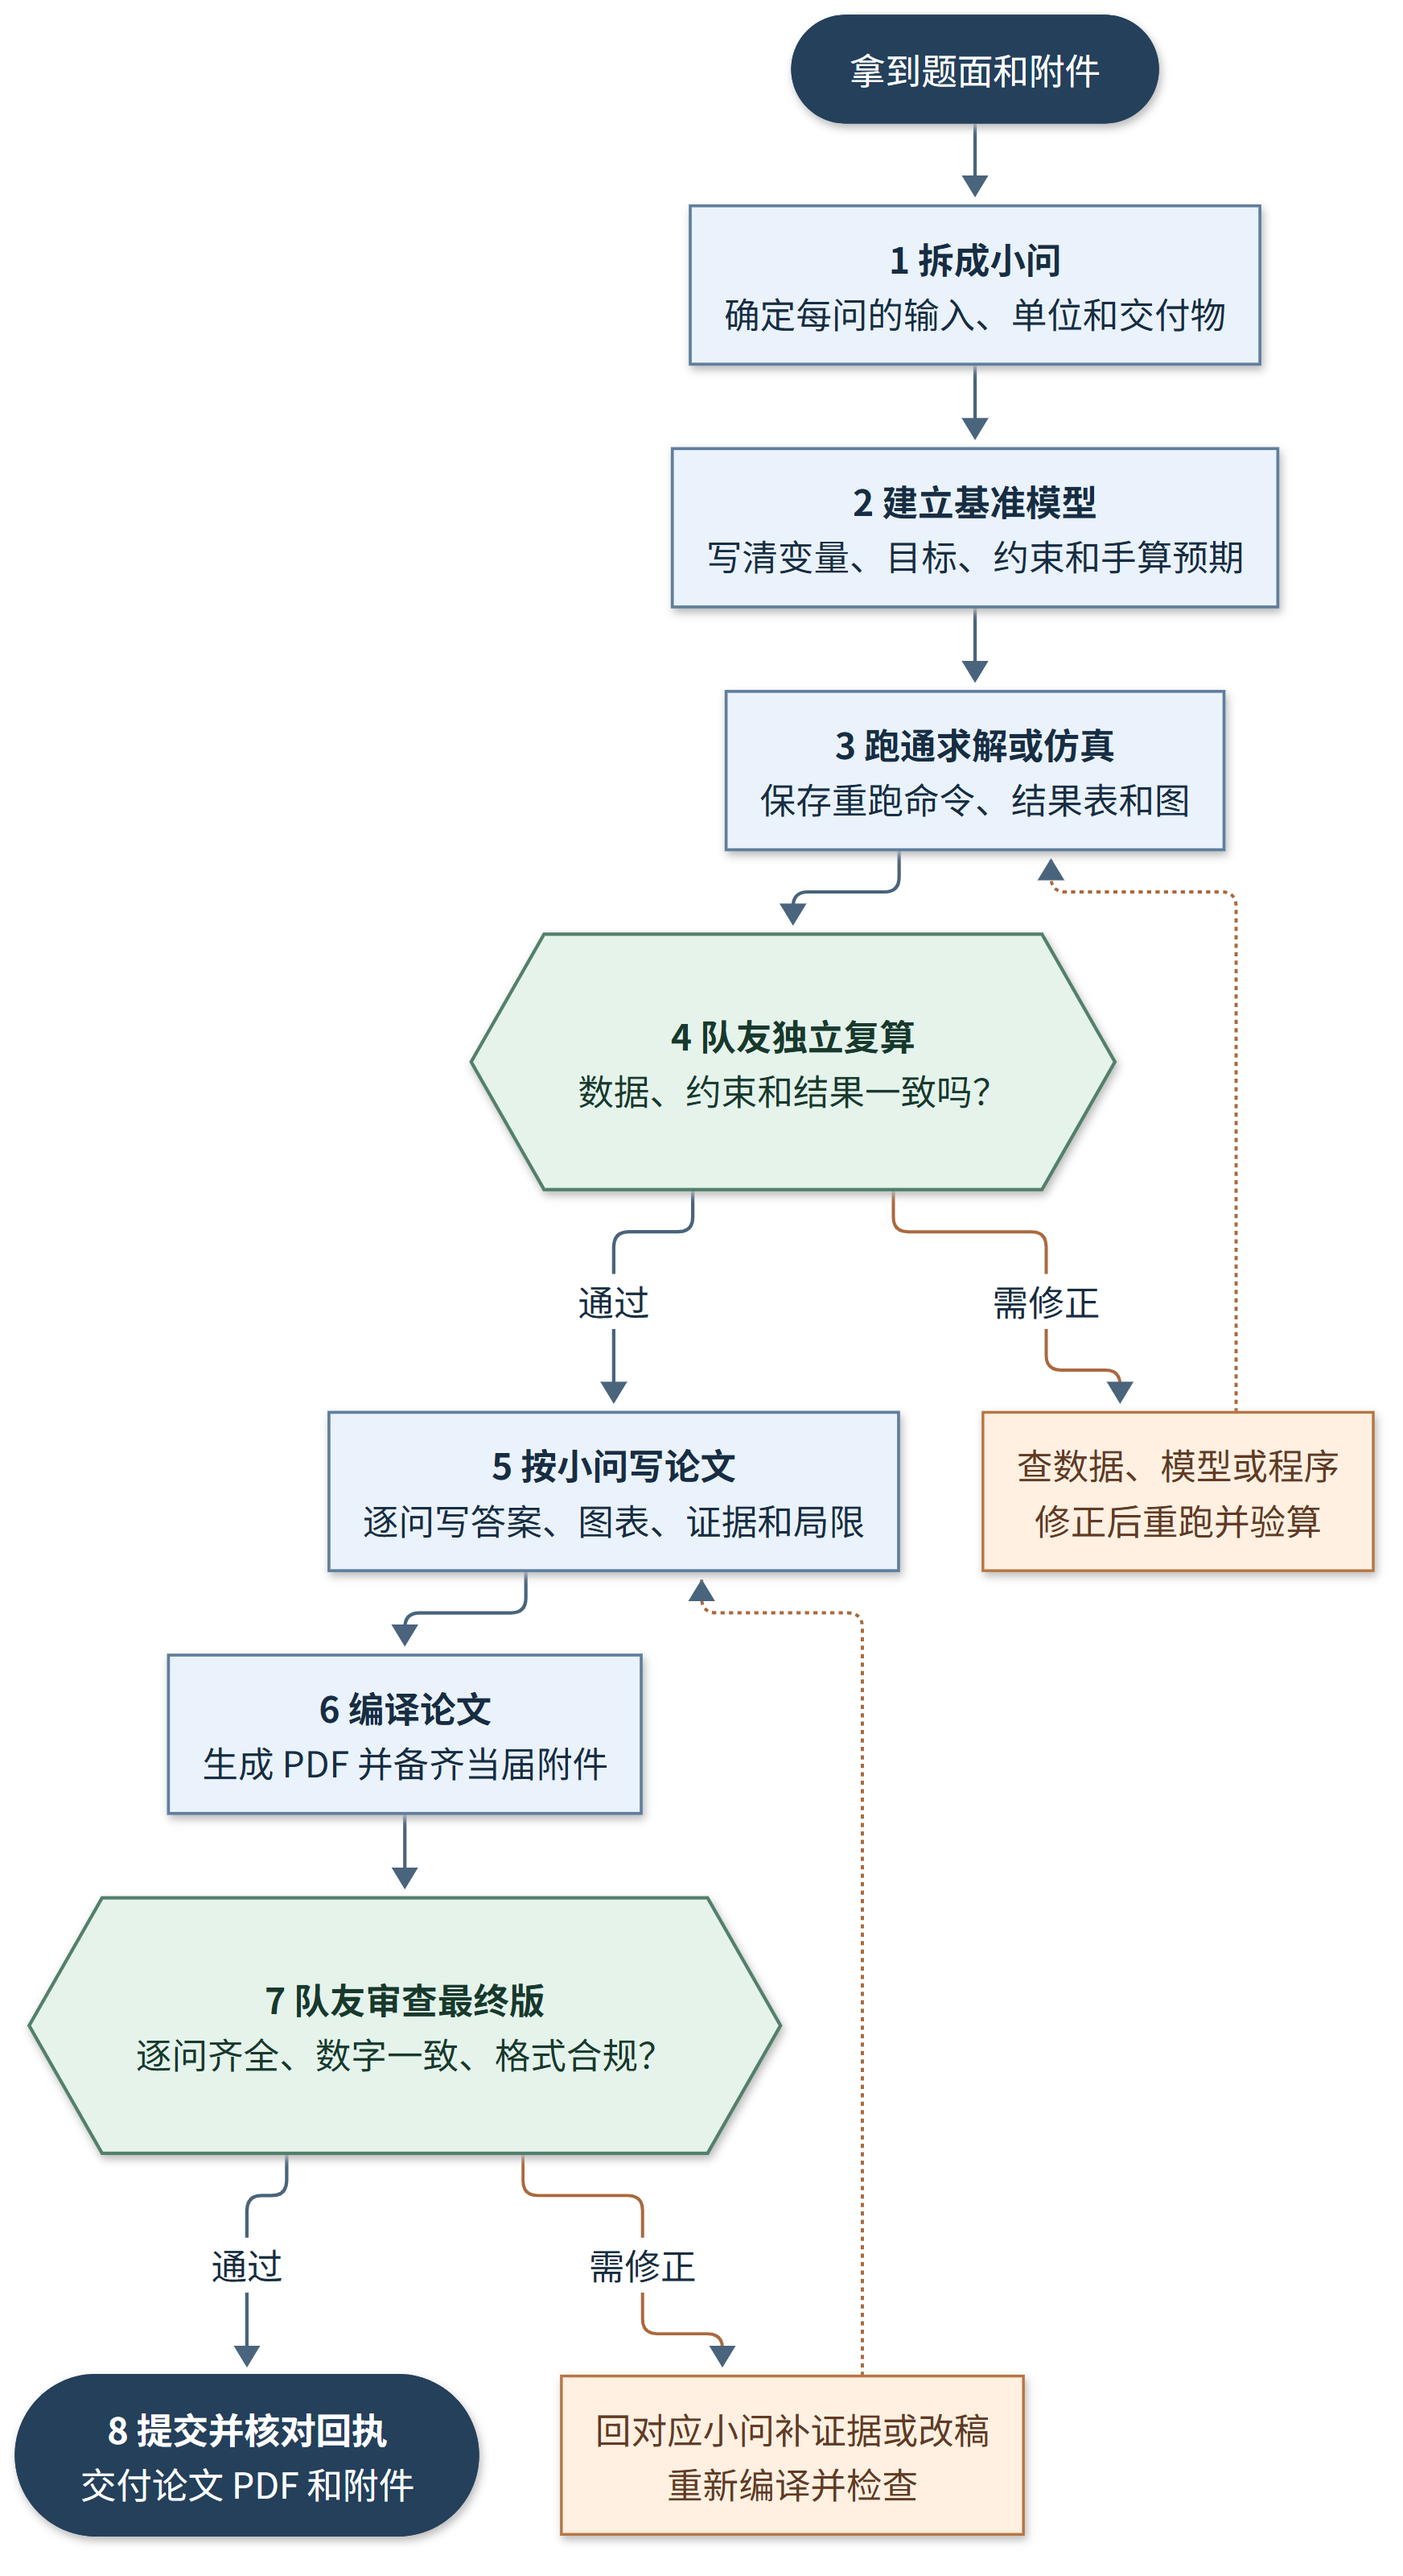
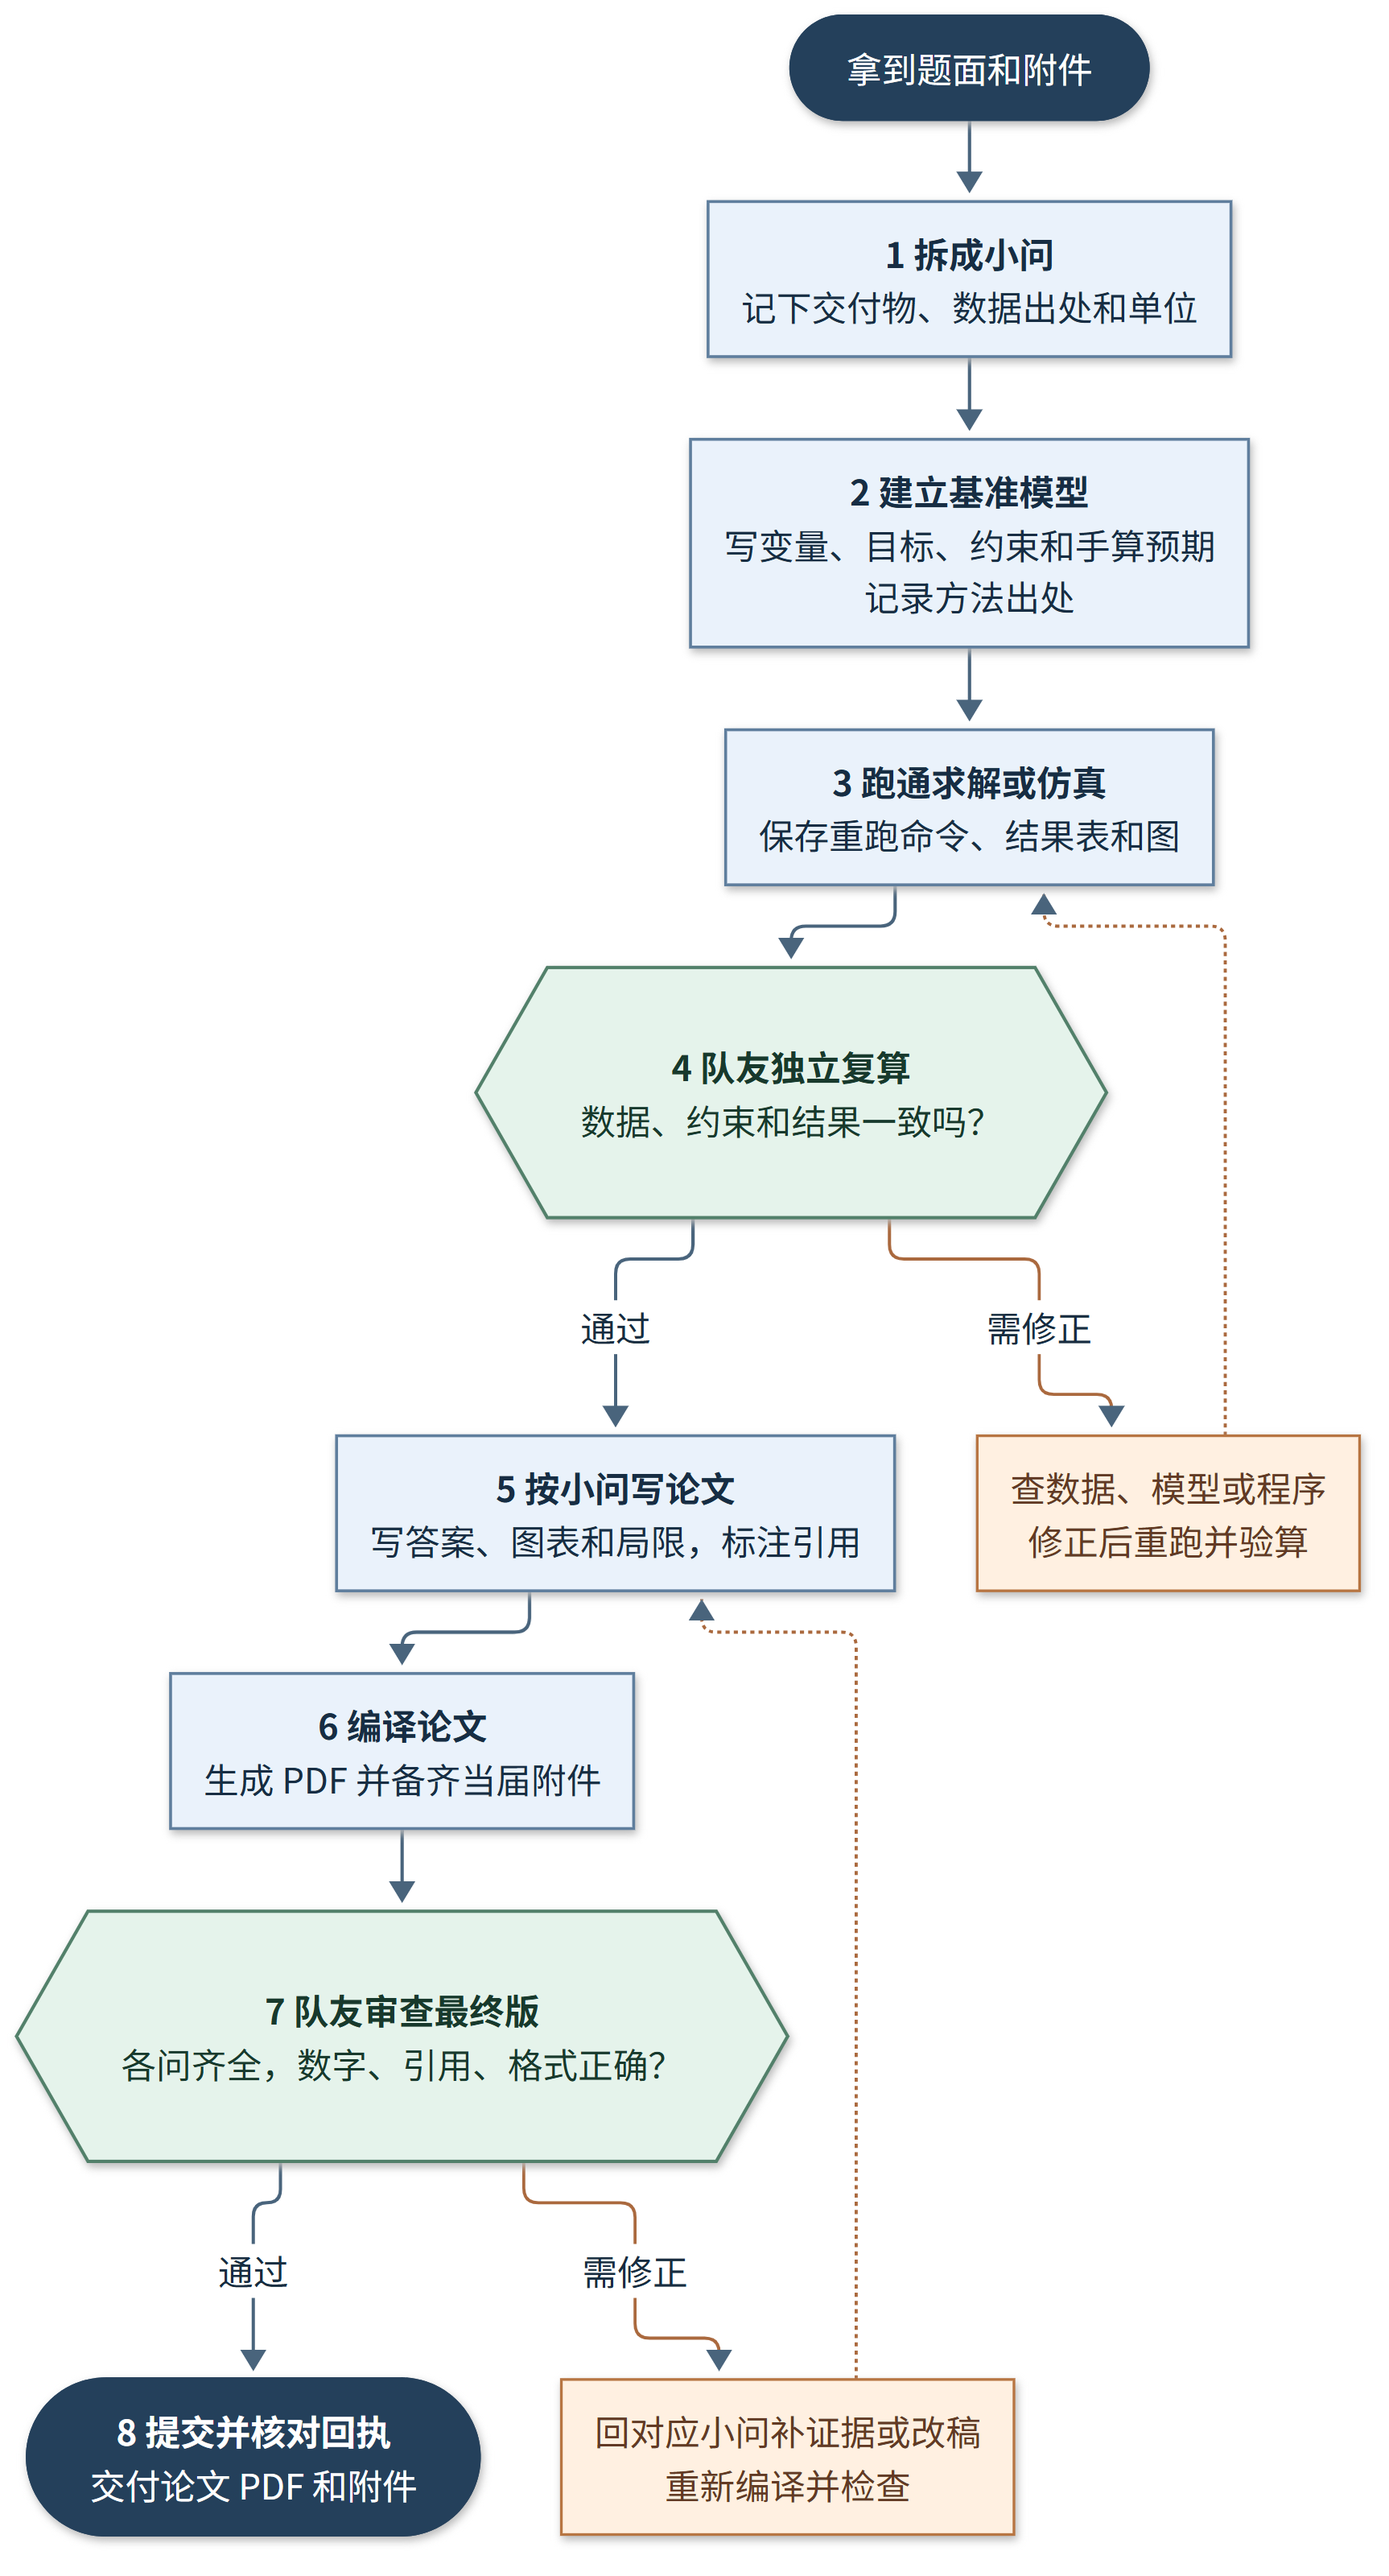
Add practical reference search and citation workflow

diff --git a/examples/references/main.tex b/examples/references/main.tex
@@ -1,0 +1,13 @@
+\documentclass{article}
+\usepackage{url}
+
+\begin{document}
+
+\section*{Validation}
+We evaluate forecasts at successive origins, fitting each model only to
+observations available before that origin\cite[Section~5.10]{hyndman2021fpp3}.
+
+\bibliographystyle{unsrt}
+\bibliography{references}
+
+\end{document}

diff --git a/docs/references-guide.md b/docs/references-guide.md
@@ -1,0 +1,41 @@
+# 数学建模论文怎么找和用参考文献
+
+拿到题后，先在每个小问里标出**需要外部依据的句子**。可能是一个背景事实、一列外部数据、一个参数、某种模型或一种检验方法。明确要支持的内容，再去找能给出直接证据的来源。
+
+## 在论文哪里引用
+
+| 你用了什么 | 正文放哪里 | 记录到什么程度 |
+| --- | --- | --- |
+| 背景事实、行业规范、公开统计结论 | 引言或对应小问的背景句 | 发布机构或作者、年份、对应的条款或数据指标 |
+| 赛题附件、外部数据集、别人制作的图表 | 数据准备、对应图注或表注 | 文件名与表号，或发布者、数据集名、版本、覆盖范围、单位和实际取数位置。图表改绘时说明来源及改动。 |
+| 外部给出的参数、假设依据 | 假设与依据，紧跟参数或假设 | 数值、单位、适用范围和页码。队伍自己设定的情景写清设定理由和检验方式。 |
+| 借用的模型、算法、指标或验证办法 | 模型、求解或检验部分，放在首次实质使用处 | 原论文、可靠教材或技术文档的具体章节、公式或 API。说明你们在这道题上怎样使用。 |
+| 队伍自己算出的数值、图和结论 | 结果、图表和结论 | 指向自己的公式、实验、图号或表格行列。例如「见表 3」属于交叉引用。若计算用到了外部数据或方法，在相应位置引用它们。 |
+
+正文先引，文末 **References** 汇总实际引用的条目。赛题附件按当届模板标明来源。有单独格式时，以赛事规定为准。
+
+## 去哪里找
+
+| 缺什么 | 从哪里开始 | 用什么作最终出处 |
+| --- | --- | --- |
+| 题面、提交要求、赛题附件 | 当届赛事页和题目附件 | 组委会的公告、下载页或原始题面，写到具体问题、表或条款。[亚太赛官网](https://www.apmcm.org/) |
+| 方法和同类应用 | 用英文关键词在 Google Scholar 搜，或用学校图书馆的知网入口找中文文献 | 首选可核对的原论文、出版方页面或可靠教材。已有 DOI 时用 Crossref / DOI 链接核对元数据。[Google Scholar](https://scholar.google.com/) · [中国知网](https://www.cnki.net/) · [Crossref](https://search.crossref.org/) · [DOI](https://doi.org/) |
+| 公开数据 | 按地区、指标、时间粒度查官方数据门户 | 引具体数据集或指标页，保留单位、下载日期或版本。核对该题是否允许自行补充外部数据。[国家统计局国家数据](https://data.stats.gov.cn/) · [世界银行开放数据](https://data.worldbank.org/) |
+| 软件接口、求解器参数 | 查对应库的官方文档，按实际版本和函数名检索 | 引实际使用的版本和接口。方法依据和软件实现可以分别引用。[SciPy `milp` 文档](https://docs.scipy.org/doc/scipy/reference/generated/scipy.optimize.milp.html) |
+
+试着用“问题对象 + 方法或验证词”组合检索，例如 `unit commitment mixed integer programming`、`load forecasting rolling origin cross validation`。找到候选后，打开原文查看支撑那句话的段落、公式或表格，再核对作者、标题、年份、版本、DOI 或链接。若目前只能看到摘要或搜索片段，就把正文才有的细节留待核实。
+
+## 三人怎么交接
+
+1. **拆题时**，建模手写哪条假设或方法需要来源，编程手标出要从哪里取原始数据，论文手在 `CASE.md` 建一行记录。[案例模板](../templates/CASE.md)
+2. **建模和求解时**，找到来源的人在记录里补上具体页、章节或表号，以及它支持的说法。练习时可以让 AI 推荐关键词和候选来源，由队员打开原文核实后再采用。比赛中按当届规则使用 AI。
+3. **写作时**，论文手把来源放在使用它的句子旁，维护 Word 的来源列表或 LaTeX 的 `references.bib`。从正文回查文末条目，再从文末检查有无未实际引用的文献。
+4. **交稿前**，另一位队友打开最终 PDF 和原出处，确认编号和条目一致、来源真实可查、原文确实支持对应说法。需要改变数字、方法或结论时，回对应小问修正，再重新编译。
+
+## 跑一遍正文和 BibTeX
+
+示例把引用放在 **Validation**，紧跟“用滚动起点验证，训练集只用预测起点之前的观测”这句话。来源是 Hyndman 与 Athanasopoulos 的《Forecasting: Principles and Practice》第三版 §5.10。引用支持验证设计，你们的模型误差仍由自己的实验结果给出。[方法原文](https://otexts.com/fpp3/toolbox.html#time-series-cross-validation) · [作者给出的引用格式](https://otexts.com/fpp3/preface.html)
+
+把 [main.tex](../examples/references/main.tex) 和 [references.bib](../examples/references/references.bib) 放进同一个 Overleaf 项目，选择 `main.tex` 为主文件并编译。正文的 `\cite{...}` 会生成编号，文末会自动列出条目。向已有模板接入时，沿用模板原来的 BibTeX 或 `biblatex` 设置。[Overleaf BibTeX 指南](https://www.overleaf.com/learn/latex/Bibliography_management_with_bibtex)
+
+用 Word 时，在“引用”菜单插入来源和书目，选择赛事要求的格式。交稿前打开导出的 PDF 检查实际编号与条目。

diff --git a/figures/first-contest-mindmap.md b/figures/first-contest-mindmap.md
@@ -4,18 +4,20 @@
 
 第一步先在 `CASE.md` 给每问记下已知数据、要回答的问题和计划交付的结果。[小问交接模板](../templates/CASE.md)
 
+参考文献从第 1–2 步就开始找。拆题记录数据来源，建模记录方法出处，第 5 步把引用放到正文用到它的地方，第 7 步对照原文和 PDF 核对。[参考文献怎么找、怎么用](../docs/references-guide.md)
+
 ```mermaid
 %%{init: {"theme":"base","themeVariables":{"fontFamily":"Microsoft YaHei, Noto Sans CJK SC, sans-serif","fontSize":"17px","background":"#ffffff","lineColor":"#49647C","primaryTextColor":"#182C40","edgeLabelBackground":"#ffffff"},"flowchart":{"curve":"linear","nodeSpacing":25,"rankSpacing":24,"padding":10,"wrappingWidth":320}}}%%
 flowchart TB
-    start(["拿到题面和附件"]) --> read["<b>1 拆成小问</b><br/>确定每问的输入、单位和交付物"]
-    read --> model["<b>2 建立基准模型</b><br/>写清变量、目标、约束和手算预期"]
+    start(["拿到题面和附件"]) --> read["<b>1 拆成小问</b><br/>记下交付物、数据出处和单位"]
+    read --> model["<b>2 建立基准模型</b><br/>写变量、目标、约束和手算预期<br/>记录方法出处"]
     model --> run["<b>3 跑通求解或仿真</b><br/>保存重跑命令、结果表和图"]
     run --> audit{{"<b>4 队友独立复算</b><br/>数据、约束和结果一致吗？"}}
     audit -->|需修正| fix["查数据、模型或程序<br/>修正后重跑并验算"]
-    audit -->|通过| draft["<b>5 按小问写论文</b><br/>逐问写答案、图表、证据和局限"]
+    audit -->|通过| draft["<b>5 按小问写论文</b><br/>写答案、图表和局限，标注引用"]
     fix -.-> run
     draft --> pdf["<b>6 编译论文</b><br/>生成 PDF 并备齐当届附件"]
-    pdf --> preflight{{"<b>7 队友审查最终版</b><br/>逐问齐全、数字一致、格式合规？"}}
+    pdf --> preflight{{"<b>7 队友审查最终版</b><br/>各问齐全，数字、引用、格式正确？"}}
     preflight -->|通过| finish(["<b>8 提交并核对回执</b><br/>交付论文 PDF 和附件"])
     preflight -->|需修正| revise["回对应小问补证据或改稿<br/>重新编译并检查"]
     revise -.-> draft

diff --git a/.agents/skills/mcm-skill-router/references/new-problem.md b/.agents/skills/mcm-skill-router/references/new-problem.md
@@ -17,4 +17,6 @@
 
 优先使用能运行和验算的现有工具。有实质性改善时再加复杂模型。需要某个专项技能时查[专项技能](specialist-skills.md)，把必须安装的 Python 依赖按实际采用的实现写进当前案例。编译条件未齐时先交源稿和可执行的编译步骤，标明 PDF 的验证状态。
 
-每阶段更新 `CASE.md`。结束时检查每个已做小问都交清答案、代码和证据，换输入后仍可从原始数据重跑。需要用对照试验确认验错能力时，加一个只造成单项失败的反例。
+每阶段更新 `CASE.md`。拆题和建模时登记数据、参数及方法的来源，写稿时把引用放到相应句子旁，交稿前由队友对照原文和最终 PDF。[参考文献指南](../../../../docs/references-guide.md)
+
+结束时检查每个已做小问都交清答案、代码和证据，换输入后仍可从原始数据重跑。需要用对照试验确认验错能力时，加一个只造成单项失败的反例。

diff --git a/README.md b/README.md
@@ -2,7 +2,7 @@
 
 面向数模小组的 Codex 技能。组员可以用自己的题面和附件开题，从拆解小问、建模和求解走到出图、论文与结果复核。也可以按个人陪练或 AI 自主训练的方式使用。
 
-**拿到题后，先看从赛题到可提交论文的路线图。** 图里写清每一步要交付什么、在哪两处验收，以及出错后回到哪一步。三人的分工和 AI 辅助方式在首赛实战手册里。[赛题到论文路线图](figures/first-contest-mindmap.md) · [首赛实战手册](docs/team-playbook.md)
+**拿到题后，先看从赛题到可提交论文的路线图。** 图里写清每一步要交付什么、在哪两处验收，以及出错后回到哪一步。[赛题到论文路线图](figures/first-contest-mindmap.md) · [首赛实战手册](docs/team-playbook.md) · [参考文献怎么找、怎么用](docs/references-guide.md)
 
 ## 快速开始
 

diff --git a/docs/team-playbook.md b/docs/team-playbook.md
@@ -30,6 +30,8 @@
 - **用 AI 辅助读题**。请它解释术语、整理你们已记录的题面要求，或指出哪里可能漏读。组员自己翻回原文和附件核对每个决定。
 - **过关**。在 `CASE.md` 给每问写一行，包含交付物、输入来源、主责和复核人。定好基准结果、合稿和上传的队内检查时间。
 
+需要补背景、数据或方法时，先记清这份来源要支持哪句话，再查原始发布页或原文。[参考文献指南](references-guide.md)
+
 ### 3. 先定一个能验算的基准模型
 
 - **建模手先写**。列出变量、单位、目标和约束，选一个最简单、能回答小问且能核对的办法。写一个手算预期。编程手确认字段与公式能对应，论文手记录每个关键假设的理由。

diff --git a/templates/CASE.md b/templates/CASE.md
@@ -12,6 +12,13 @@
 
 记录影响结论的假设、采用理由和检验结果。给关键结论附结果表的行列、图号或可复算的出处。
 
+## 参考文献与数据来源
+
+找到资料时先登记能支持哪句话，再核对具体位置。写稿后填上正文位置和引用键，交队友复核。
+
+| 小问与用途 | 作者或机构、年份与标题 | DOI、原始链接或附件 | 页码、章节、表号或指标 | 正文位置或引用键 | 复核状态 |
+| --- | --- | --- | --- | --- | --- |
+
 ## 复跑与交稿
 
 写下从原始附件复跑的命令、所需环境、代码和结果路径。记录模型与论文一致性检查、人工核验、尚缺的材料和按赛事要求保留的 AI 使用记录。
